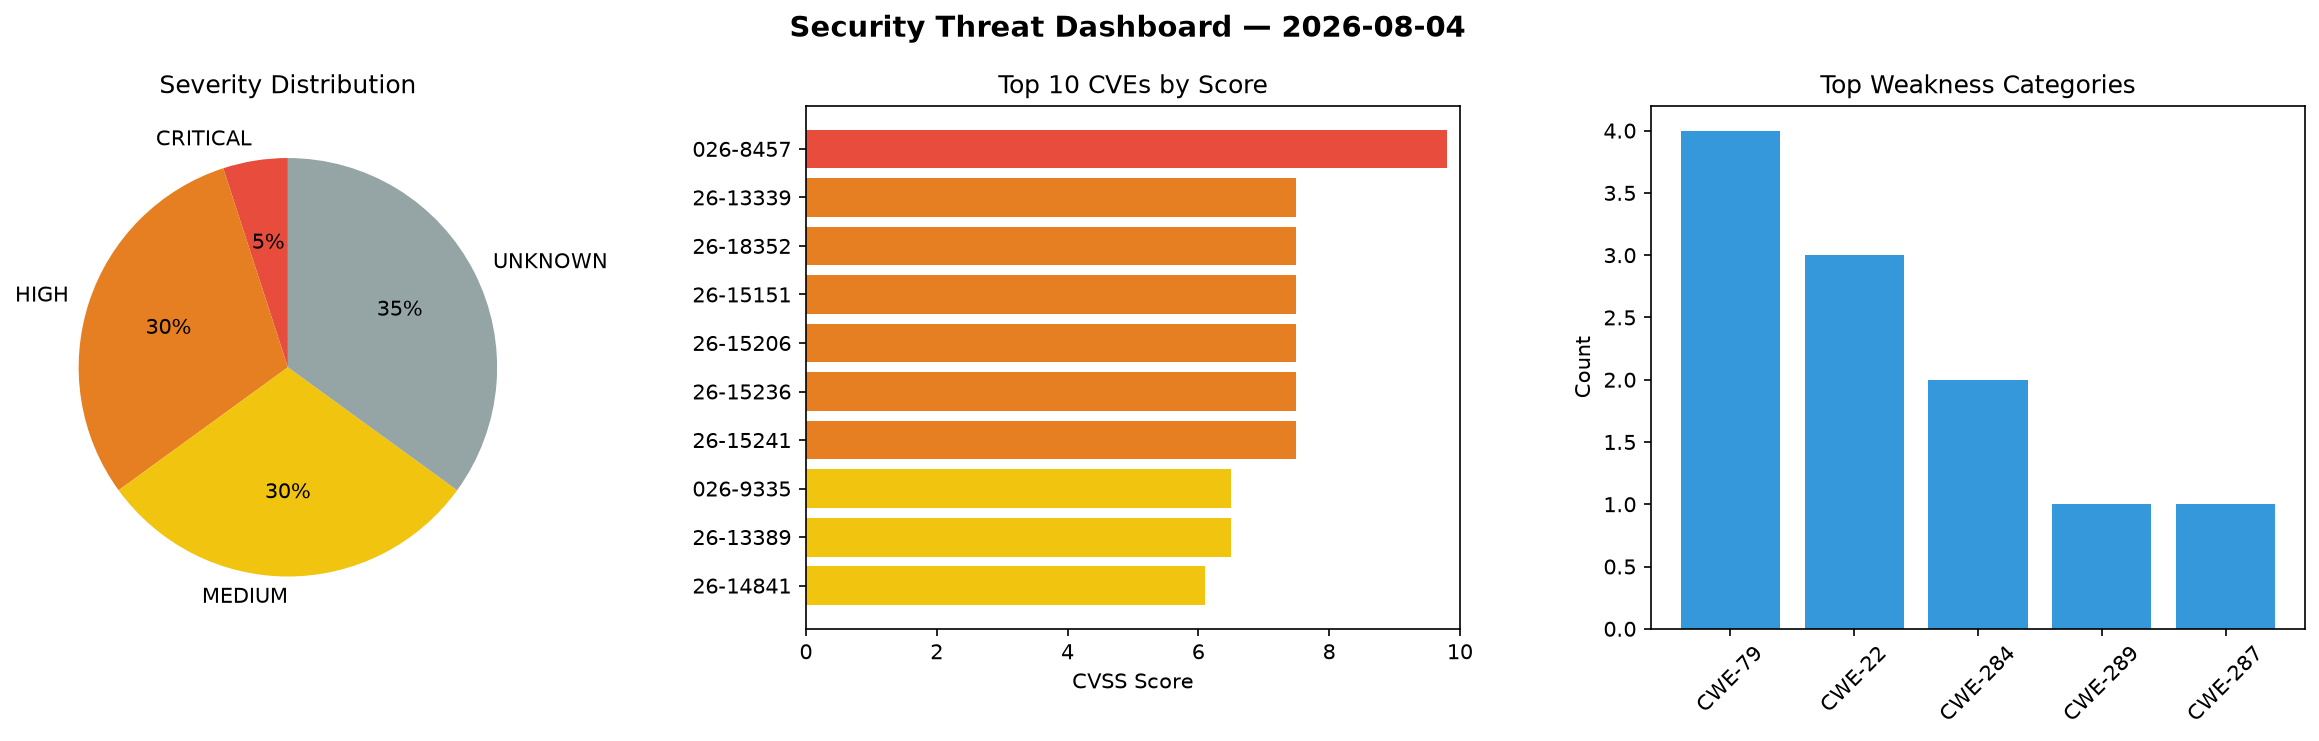
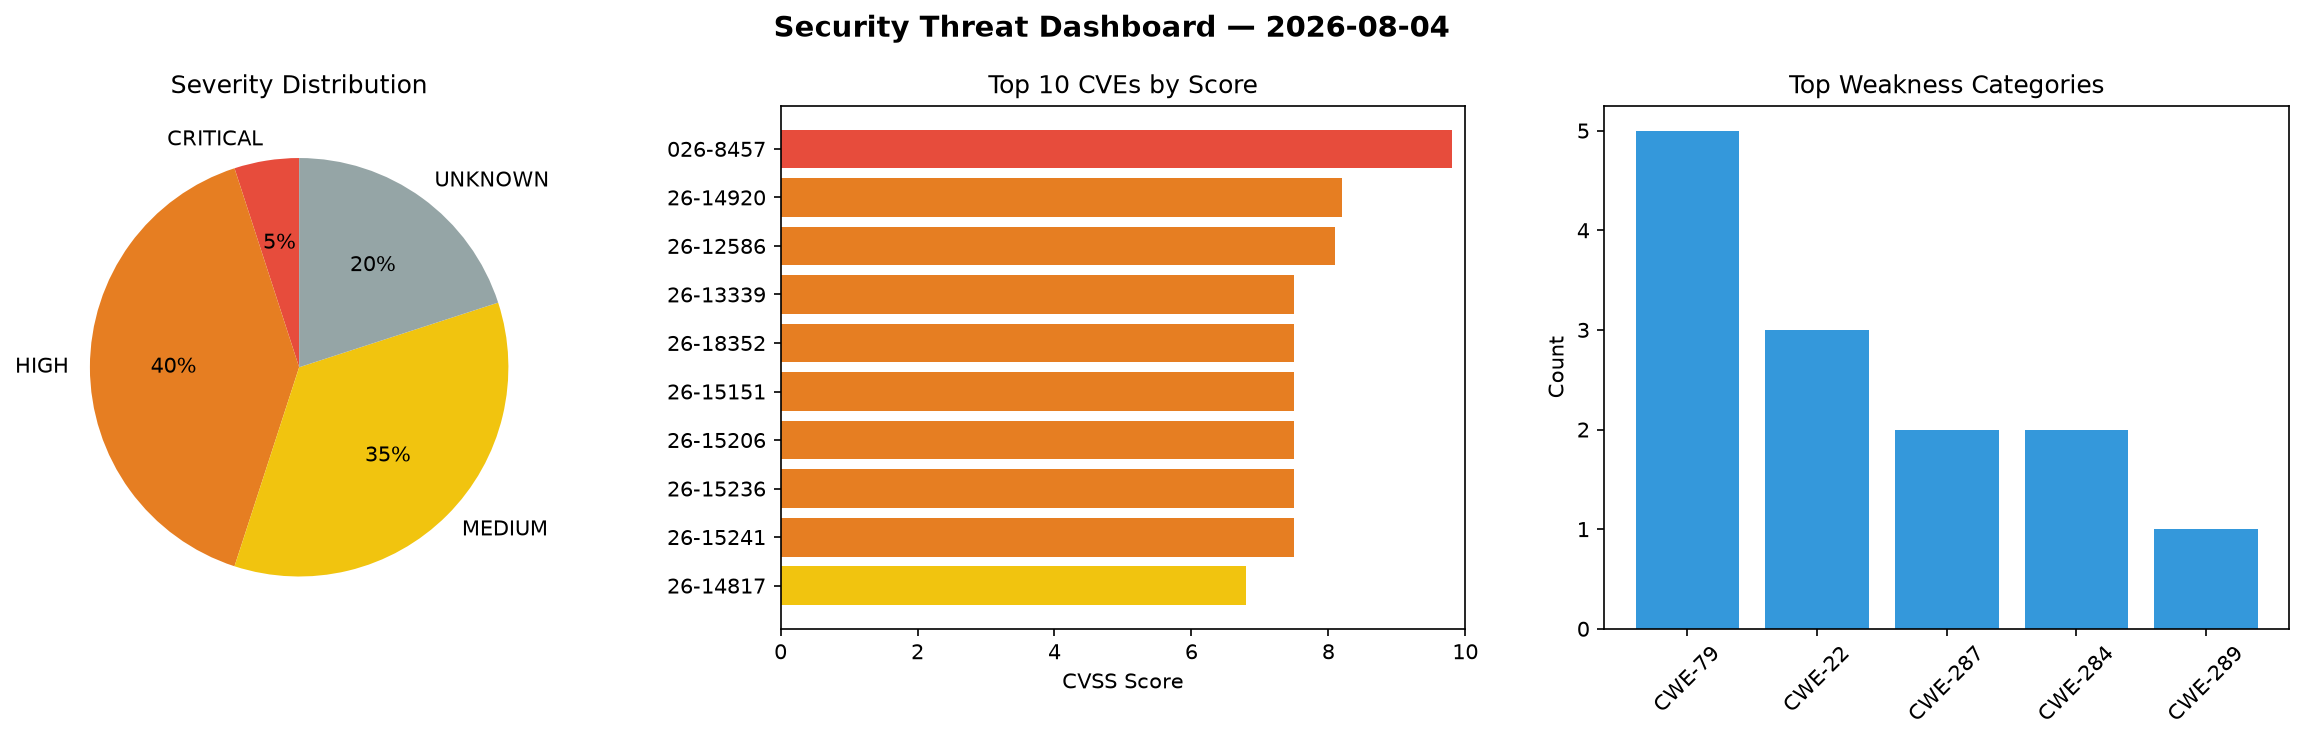
daily-experiments: security scan 2026-08-04T21:45

diff --git a/logs/2026-08-04.md b/logs/2026-08-04.md
@@ -1,6 +1,6 @@
 # Security Scan Report — 2026-08-04
 
-**Scan ID:** `6949c7c9c4` | **CVEs:** 20 | **Threat Index:** 243.6
+**Scan ID:** `37d9594cf7` | **CVEs:** 20 | **Threat Index:** 306.1
 
 ![Dashboard](2026-08-04_dashboard.png)
 
@@ -10,47 +10,47 @@
 
 | Metric | Value |
 |--------|-------|
-| Threat Index | 243.6 |
+| Threat Index | 306.1 |
 | Critical CVEs | 1 |
 | CRITICAL | 1 |
-| HIGH | 6 |
-| MEDIUM | 6 |
-| UNKNOWN | 7 |
+| HIGH | 8 |
+| MEDIUM | 7 |
+| UNKNOWN | 4 |
 
 ## Delta vs Yesterday
 
 | Metric | Today | Yesterday | Change |
 |--------|-------|-----------|--------|
 | total_cves | 20 | 20 | ➡ 0.0% |
-| threat_index | 243.6 | 201.1 | 📈 21.1% |
+| threat_index | 306.1 | 201.1 | 📈 52.2% |
 | critical_count | 1 | 2 | 📉 -50.0% |
 
 ## Top Weakness Categories
 
 | CWE | Count |
 |-----|-------|
-| CWE-79 | 4 |
+| CWE-79 | 5 |
 | CWE-22 | 3 |
+| CWE-287 | 2 |
 | CWE-284 | 2 |
 | CWE-289 | 1 |
-| CWE-287 | 1 |
 
 ## CVE Details
 
 | CVE ID | Score | Severity | Description |
 |--------|-------|----------|-------------|
 | CVE-2026-8457 | 9.8 | CRITICAL | The WooCommerce - Social Login plugin for WordPress is vulnerable to Authenticat... |
+| CVE-2026-14920 | 8.2 | HIGH | ## Summary... |
+| CVE-2026-12586 | 8.1 | HIGH | The Lenxel WP WordPress theme through 1.0.31 does not perform any authorization ... |
 | CVE-2026-13339 | 7.5 | HIGH | The CubeWP Framework plugin for WordPress is vulnerable to Directory Traversal i... |
 | CVE-2026-18352 | 7.5 | HIGH | The User Access Manager plugin for WordPress is vulnerable to Directory Traversa... |
 | CVE-2026-15151 | 7.5 | HIGH | The Five Star Restaurant Reservations  WordPress plugin before 2.7.23 does not p... |
 | CVE-2026-15206 | 7.5 | HIGH | The SMS Alert  WordPress plugin before 3.9.8 does not bind its "mobile verified"... |
 | CVE-2026-15236 | 7.5 | HIGH | The Gallery for Google Photos  WordPress plugin before 1.2.1 does not properly r... |
 | CVE-2026-15241 | 7.5 | HIGH | The AI ChatBot for WooCommerce  WordPress plugin before 4.8.4 does not perform a... |
+| CVE-2026-14817 | 6.8 | MEDIUM | The Element Pack Addons for Elementor  WordPress plugin before 8.7.13 does not s... |
 | CVE-2026-9335 | 6.5 | MEDIUM | A vulnerability in keras-team/keras versions <= 3.14.0 allows arbitrary local HD... |
 | CVE-2026-13389 | 6.5 | MEDIUM | The webtoffee-cookie-consent WordPress plugin before 3.5.3 does not perform auth... |
 | CVE-2026-14841 | 6.1 | MEDIUM | The King Addons for Elementor  WordPress plugin before 51.1.76 does not escape a... |
 | CVE-2026-14864 | 5.4 | MEDIUM | The JetEngine WordPress plugin before 3.8.12 does not escape a post meta value b... |
 | CVE-2026-15385 | 5.4 | MEDIUM | The RT Mega Menu  WordPress plugin before 1.5.2 does not perform a capability ch... |
-| CVE-2025-15675 | 4.8 | MEDIUM | The Charitable  WordPress plugin before 1.8.5.3 does not sanitise and escape one... |
-| CVE-2026-11872 | 0.0 | UNKNOWN | The Clever Mega Menu for Visual Composer WordPress plugin through 1.0.1 does not... |
-| CVE-2026-12586 | 0.0 | UNKNOWN | The Lenxel WP WordPress theme through 1.0.31 does not perform any authorization ... |
